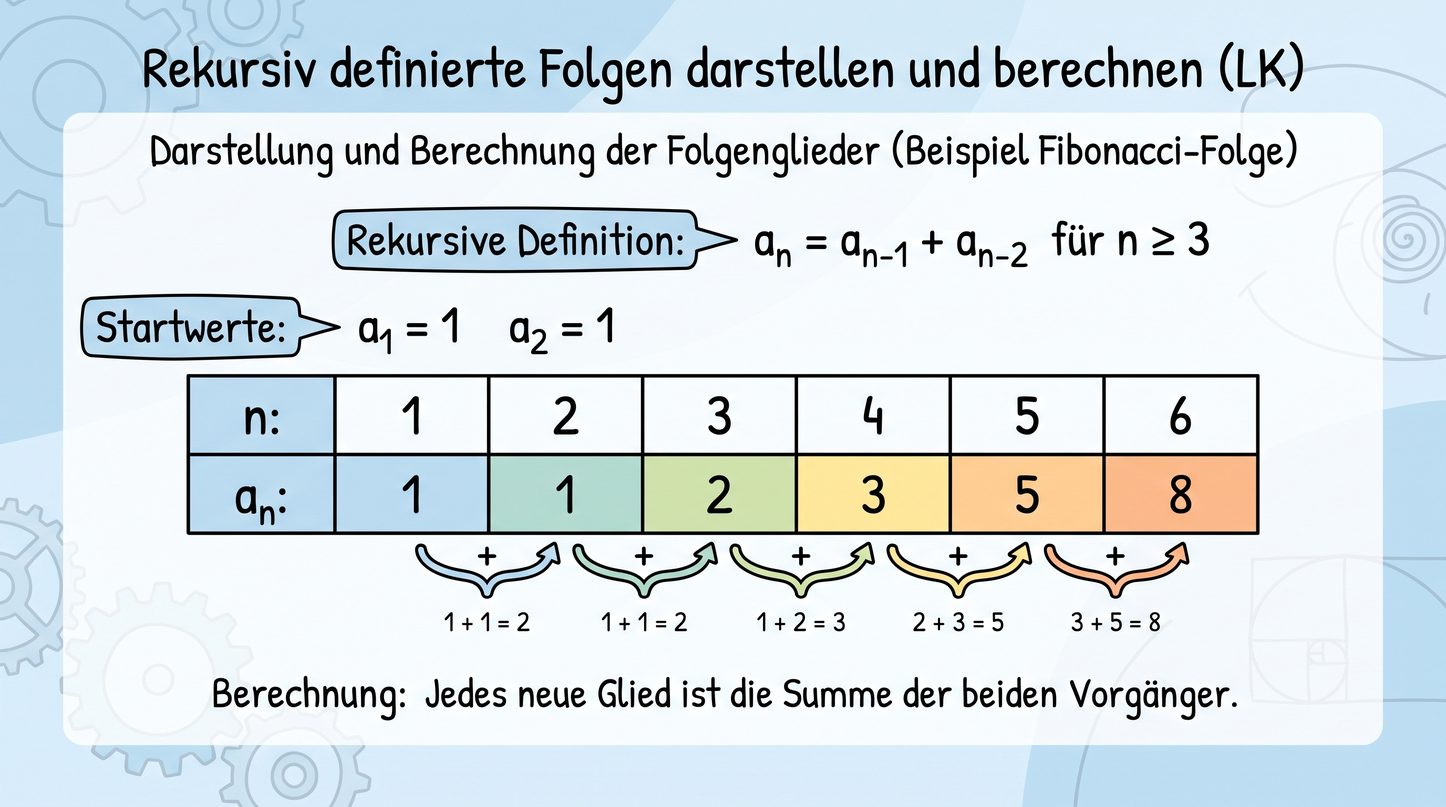
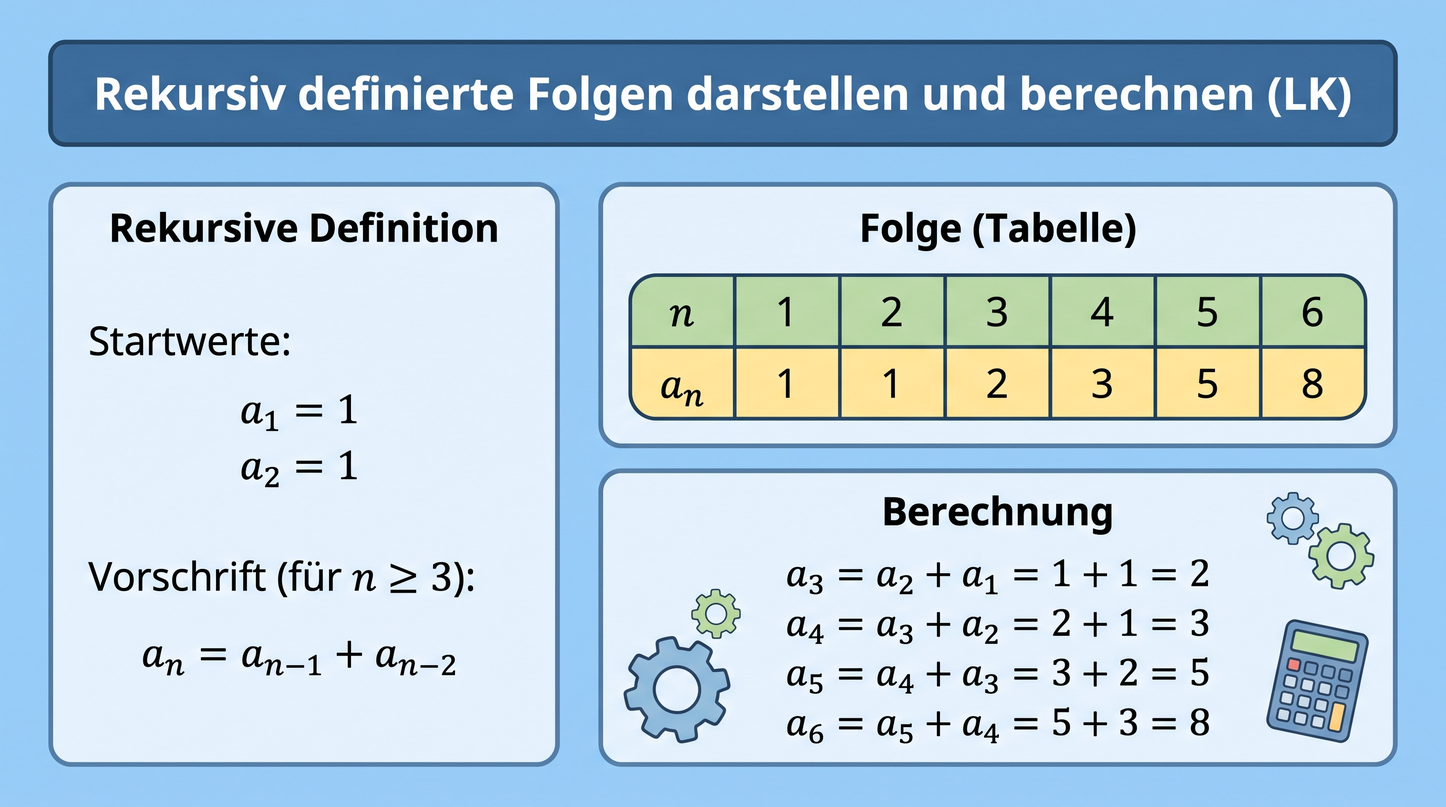
curriculum update (images)

diff --git a/curricula/DE/Gymnasium/visualizations/mathematik/10efb267-9733-5db3-a807-03f4cf54e336/prompt.de.md b/curricula/DE/Gymnasium/visualizations/mathematik/10efb267-9733-5db3-a807-03f4cf54e336/prompt.de.md
@@ -8,7 +8,7 @@
 
 ## Generator
 
-- Provider: Google Gemini / Nano Banana Pro (gemini-3-pro-image)
+- Provider: Google Gemini / Nano Banana Pro (gemini-3-pro-image, corrected no-arrow retry)
 - Status: pilot
 - Quellbild: `10efb267-9733-5db3-a807-03f4cf54e336.jpg`
 - Public Asset: `/assets/goal-visualizations/mathematik/10efb267-9733-5db3-a807-03f4cf54e336/10efb267-9733-5db3-a807-03f4cf54e336.jpg`
@@ -35,7 +35,11 @@ Pflichtinhalt:
 
 Show one recursive sequence only: Fibonacci-style start values `a_1 = 1`, `a_2 = 1`, and recursion `a_n = a_{n-1} + a_{n-2}` for `n >= 3`.
 Use a clean table with exactly these values: `n: 1, 2, 3, 4, 5, 6` and `a_n: 1, 1, 2, 3, 5, 8`.
-Make the dependence visible with text or brackets: each new value is the sum of the two previous values.
+Show the calculation in a separate list below the table, not between table cells:
+`a_3 = a_2 + a_1 = 1 + 1 = 2`
+`a_4 = a_3 + a_2 = 2 + 1 = 3`
+`a_5 = a_4 + a_3 = 3 + 2 = 5`
+`a_6 = a_5 + a_4 = 5 + 3 = 8`
 Keep all notation readable and German labels short.
 
 Vermeiden:
@@ -43,7 +47,8 @@ Vermeiden:
 Do not mix in a Newton sequence or an explicit closed formula.
 Do not change the start values.
 Do not show a wrong Fibonacci row such as `1, 2, 3, 5, 8, 13` when `a_1 = 1` and `a_2 = 1` are displayed.
-Avoid arrows. If any arrow is used, its source must be one of the two previous values and its target must be the correct next value.
+Use absolutely no arrows, no arrowheads, no curved arrows, no pointer tails, and no brace arrows between table cells.
+Do not place calculation labels under table-cell braces; use only the separate calculation list.
 ```
 
 ## Review-Notiz
